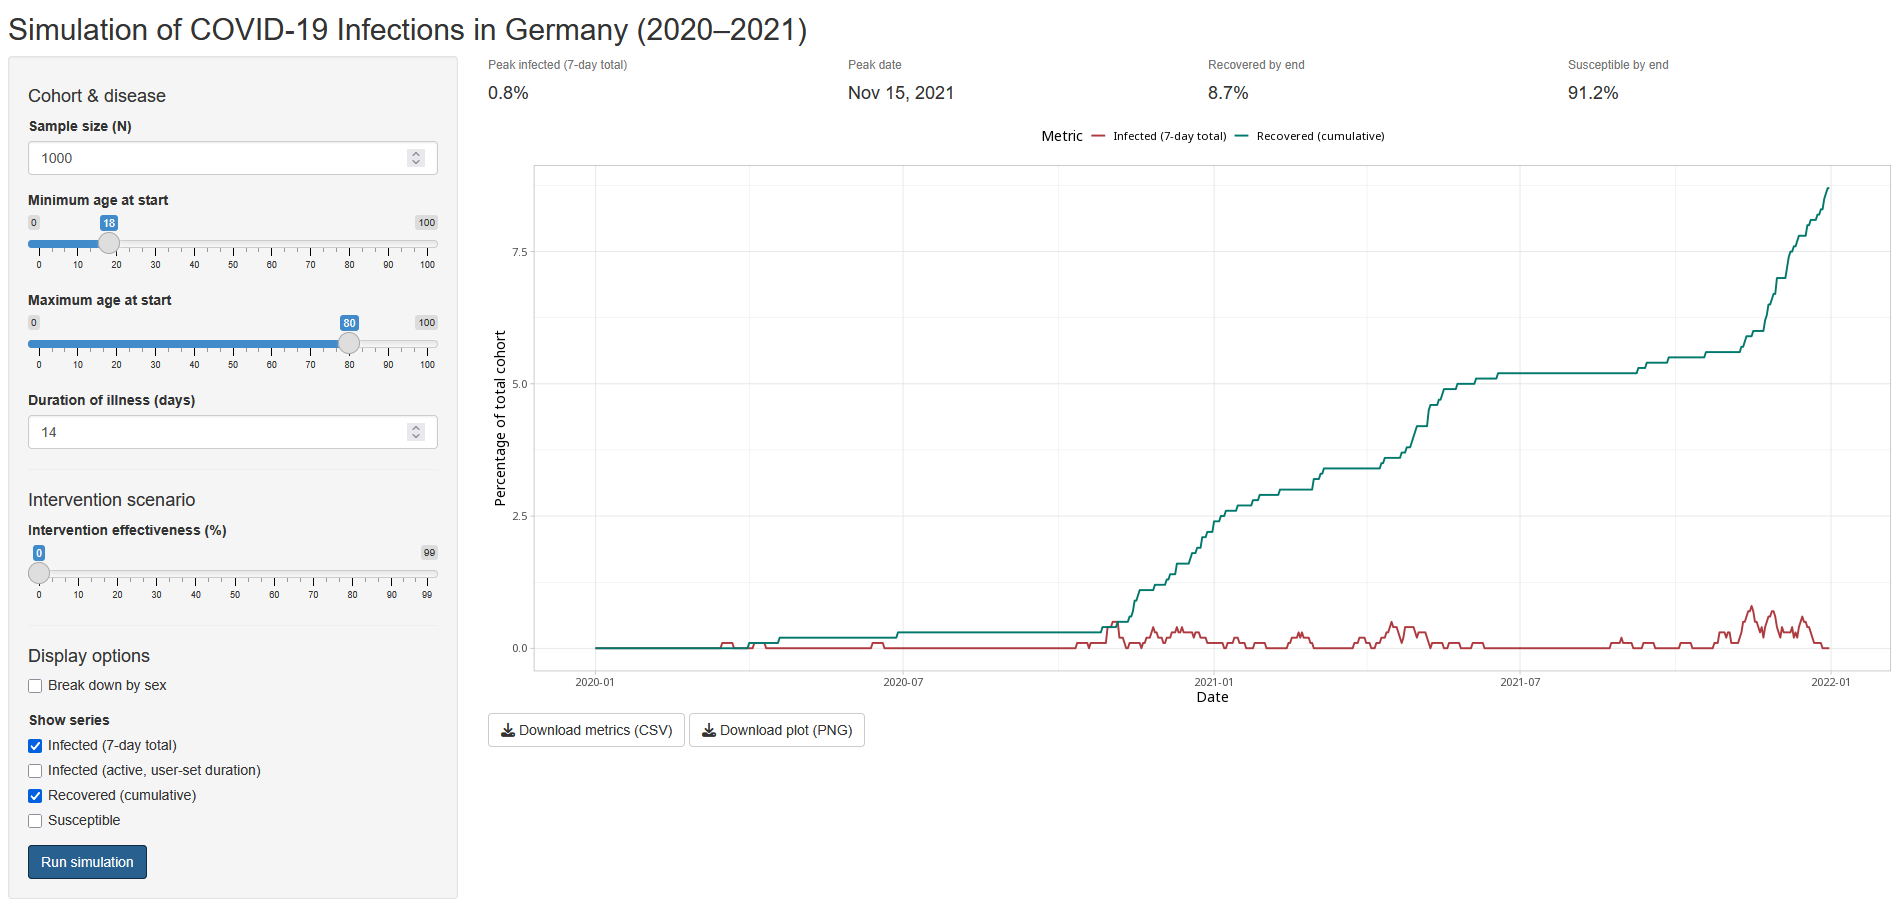
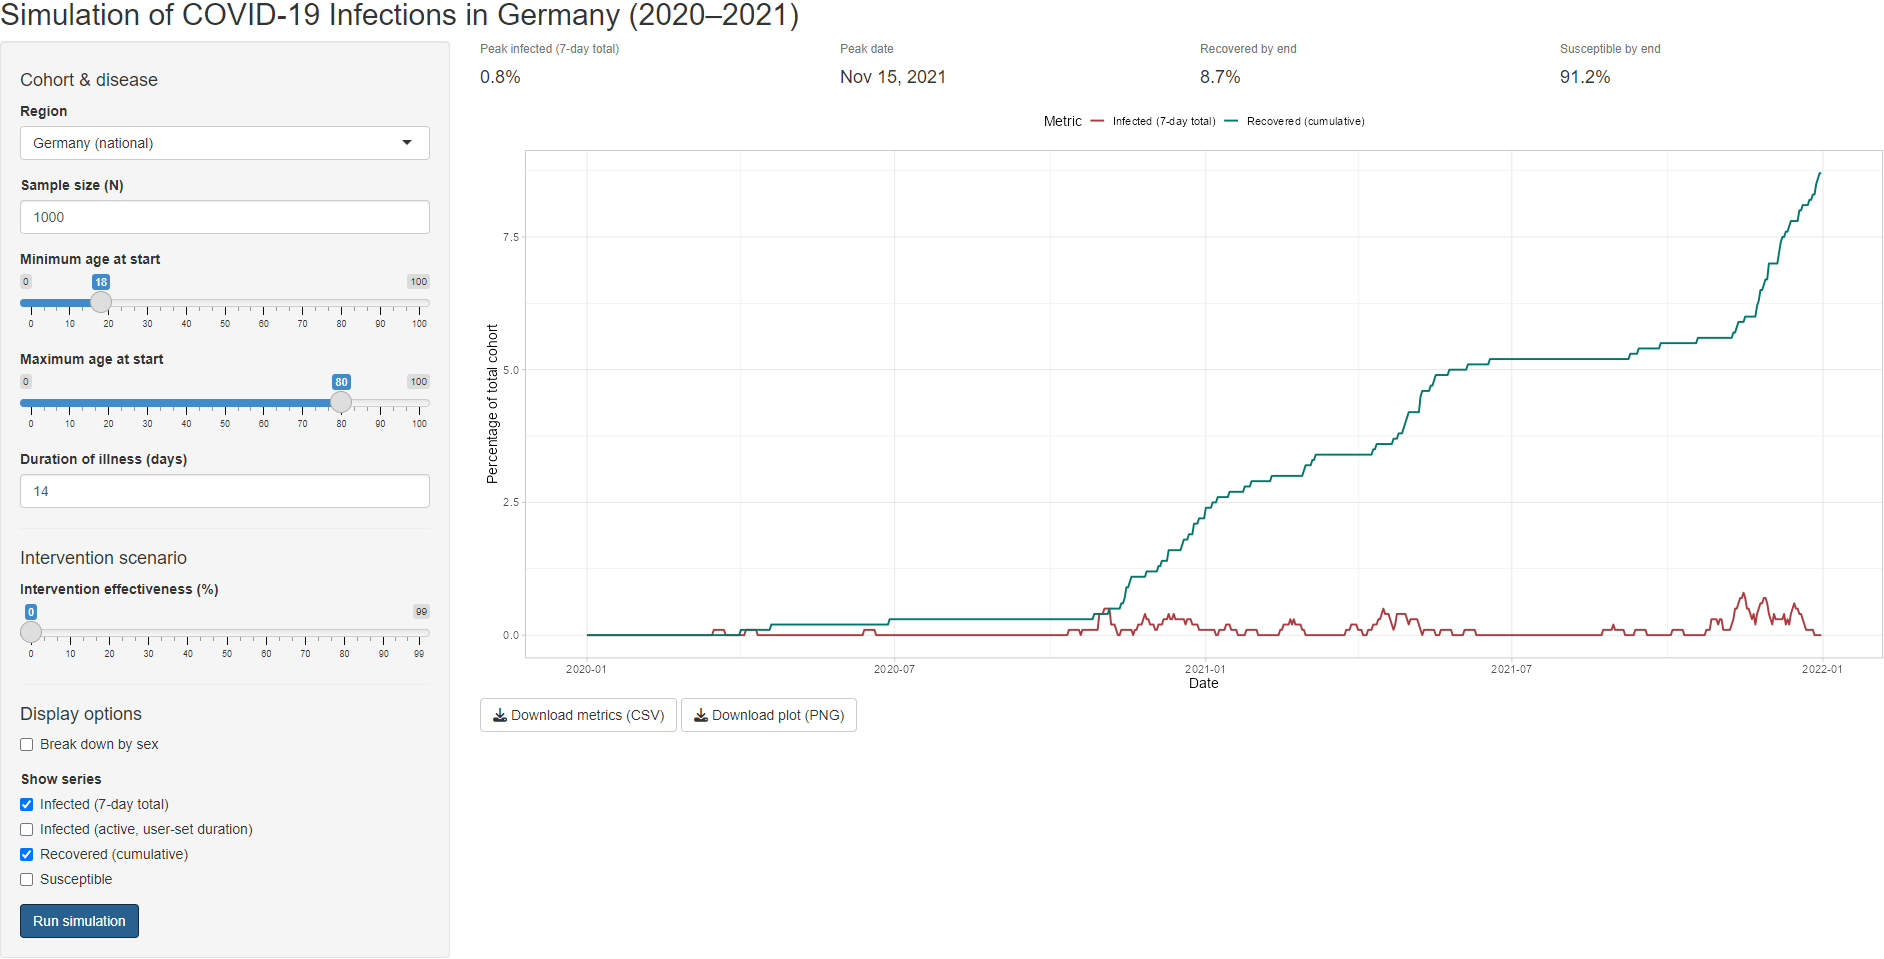
update readme

diff --git a/ReadMe.md b/ReadMe.md
@@ -18,10 +18,17 @@ The app is also available as an online demo via [GitHub Pages](https://bieneschw
 
 -   data/
 
-    -   SurvStat_complete_data - All the processed data in both CSV and RDS formats
-    -   SurvStat_female_data - Processed data for females in both CSV and RDS formats
-    -   SurvStat_male_data - Processed data for males in both CSV and RDS formats
-    -   weekly - Folder with all the raw weekly data files from SurvStat\@RKI 2.0
+    -   National (processed)
+        -   SurvStat_complete_data - All the processed data in both CSV and RDS formats
+        -   SurvStat_female_data - Processed data for females in both CSV and RDS formats
+        -   SurvStat_male_data - Processed data for males in both CSV and RDS formats
+    -   State (processed)
+        -   SurvStat_states_complete_data - All the processed data in both CSV and RDS formats
+        -   SurvStat_states_female_data - Processed data for females in both CSV and RDS formats
+        -   SurvStat_states_male_data - Processed data for males in both CSV and RDS formats
+    -   Raw weekly data from SurvStat\@RKI 2.0
+        -   weekly - National data
+        -   regional - State level data
 
 -   shinycovid-simulation.png – Example output (screenshot)
 
@@ -51,7 +58,7 @@ If you run the tool with **all default settings**, the output should match the s
 
 ## How the projection tool works
 
-1.  Import infection rates: Weekly SARS‑CoV‑2 infection rates for 2020–2021 are read from `data/weekly/` (source: Robert Koch Institute – SurvStat\@RKI 2.0).
+1.  Import infection rates: Weekly SARS‑CoV‑2 infection rates for 2020–2021 from SurvStat\@RKI 2.0 for either Germany (national) or the selected state
 2.  Generate a synthetic cohort: `N` individuals are sampled with uniform ages between the user‑chosen age range and the sample is evenly split by sex.
 3.  Microsimulation (using MicSim): Each individual can move through the states `Susceptible → Infected → Recovered`
     -   Transition rates can be scaled by `1 – (intervention effectiveness / 100)` starting on the selected `intervention date`.
@@ -66,6 +73,8 @@ If you run the tool with **all default settings**, the output should match the s
 
 ## Inputs (left panel)
 
+-   **Region**: Germany (national) or any Bundesland
+
 -   **Sample size (N):** 1,000–30,000
 
     *Note: Values above 30,000 can also be used, but the simulation will run more slowly.*
@@ -76,9 +85,9 @@ If you run the tool with **all default settings**, the output should match the s
 
 -   **Intervention effectiveness (%):** percentage reduction in incidence
 
--   **Intervention starts:** date when the intervention begins
+    -   **Intervention starts:** date when the intervention begins
 
--   **Compare intervention against baseline:** run both a baseline scenario (without intervention) and an intervention scenario, and compare the results
+    -   **Compare intervention against baseline:** run both a baseline scenario (without intervention) and an intervention scenario, and compare the results
 
 -   **Break down by sex:** Display plots and indicators by sex (Female/Male)
 
